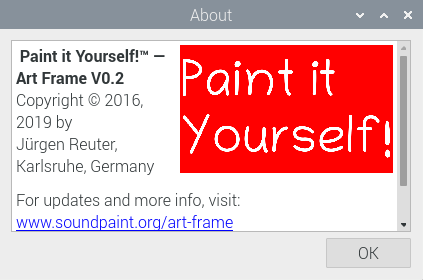
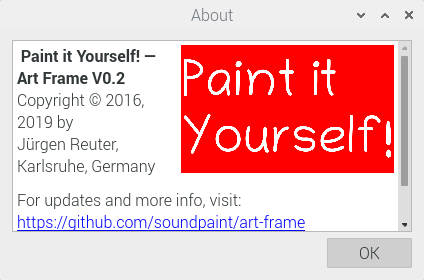
Documentation: Update Screenshots
* Update screenshot of about window.
* Update screenshot of control window
  in minimal kiosk mode.
* Also some minor clarifications.

diff --git a/README.md b/README.md
@@ -208,7 +208,7 @@ The _Art Frame_ group contains action buttons to
 
 * show the _About_ window,
 * show the _License_ window, and
-* quit the application (and, optionally, thereby completely shut down
+* quit the application (and, by default, thereby completely shut down
   the system).
 
 #### _Simulation_ Group
@@ -274,18 +274,28 @@ In specific environments such as in an art exhibition, users may be
 encouraged to play with the art frame, without a supervisor always
 being present.  In such a setting, one may want to disable some
 functionality such as shutting down the system or displaying audio
-control features without any functional speaker attached to the
-device.  In the `kiosk-mode` section, the configuration file
-`config.xml` contains specific configuration variables to enable or
-disable specific functionality available via the graphical GUI as well
-as via any USB-connected keyboard.
+control features when no speaker is attached to the device.  The
+configuration file `config.xml` contains specific configuration
+variables, most of them in the `kiosk-mode` section, to enable or
+disable specific functionality.
+
+In particular, the following functions can be disabled via
+configuration variables in the `config.xml` configuration file:
+
+* _Quit_ button,
+* _Volume_ dial only, while still showing the _Mute_ button,
+* _Audio_ group altogether, and
+* _Gravity_ dial.
+
+Ultimately, the access control window can be completely deactivated,
+if desired.
 
 ![Fig. 11: Minimal Access Control Window](doc/images/control_window_kiosk.png)
 
 Fig. 11: Minimal Access Control Window
 
-Actually, the access control window can be completely deactivated, if
-desired.
+See the comments in the `config.xml` file for details on the
+configuration variables.
 
 ### How to Exit
 
